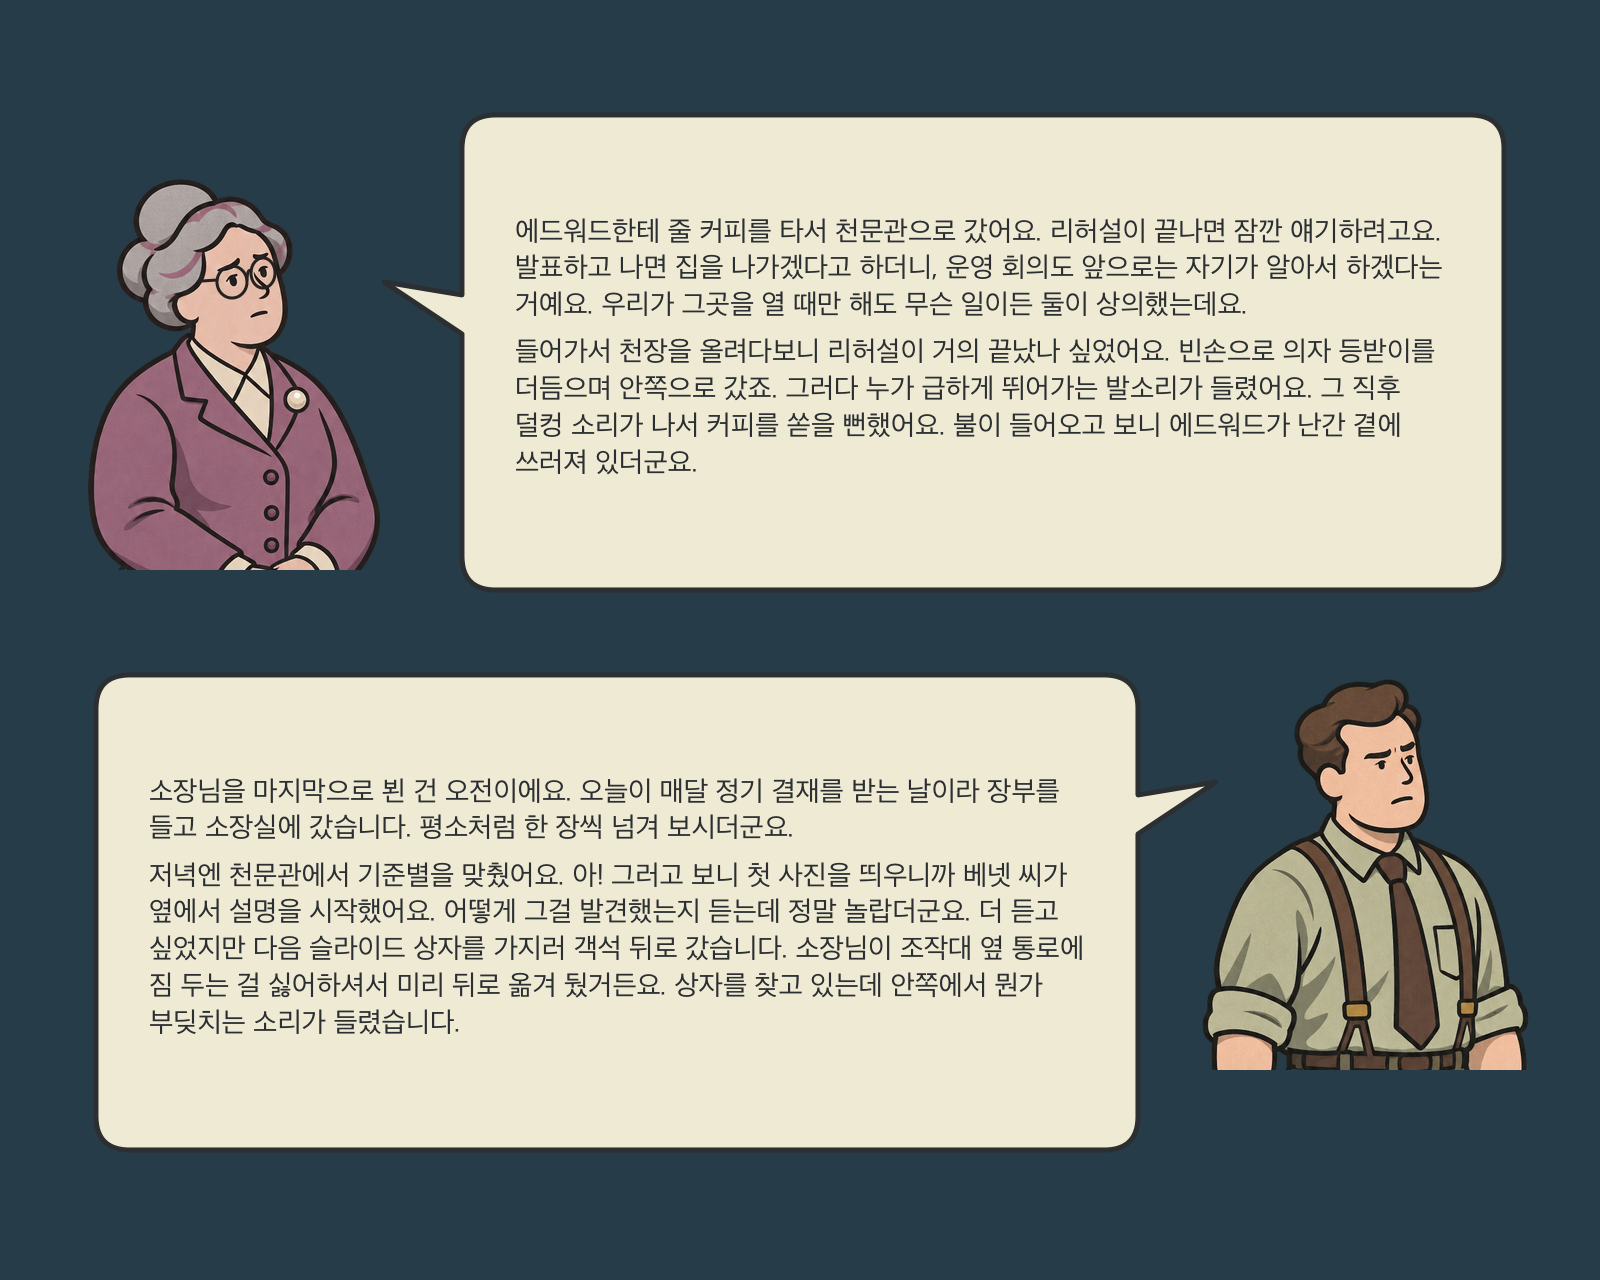
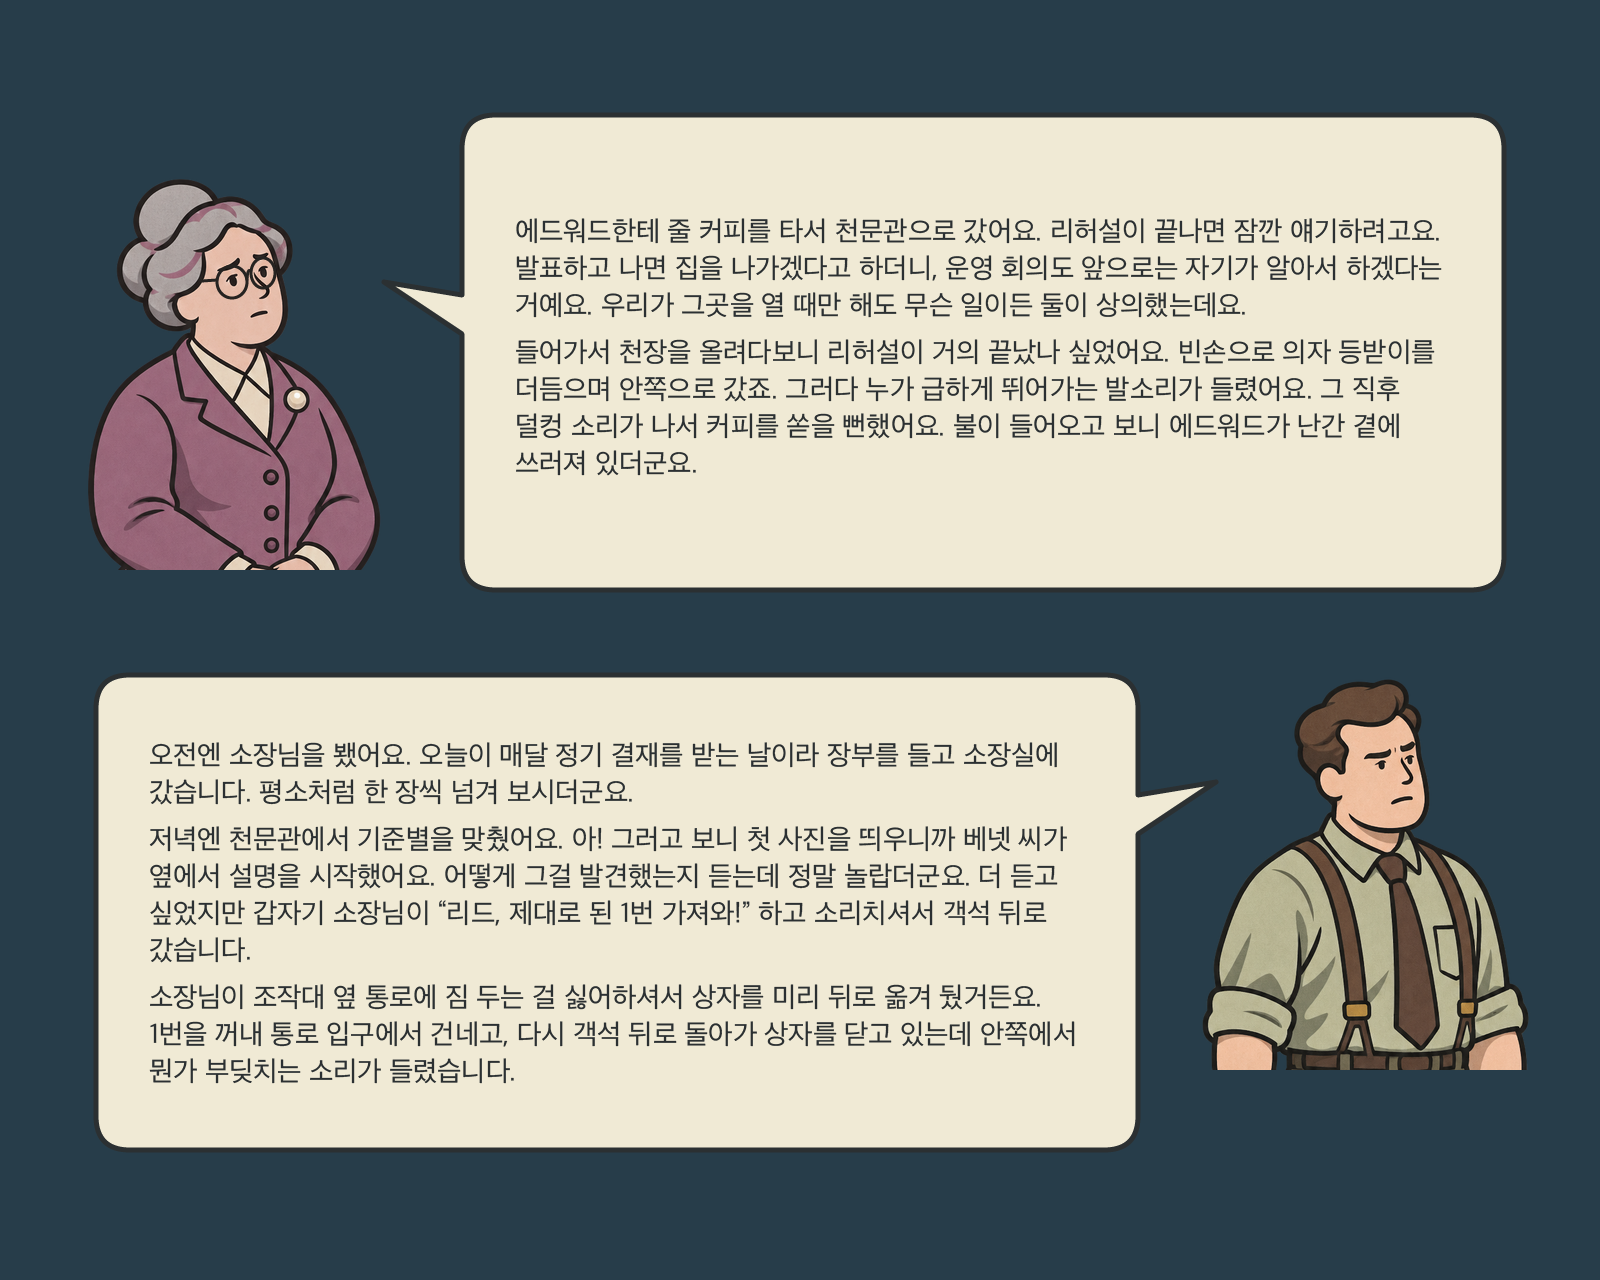
Publish revised planetarium scene and Reid testimony

Changed region(s): [[0.0938, 0.5625, 0.6875, 0.8438], [0.3125, 0.1562, 0.9062, 0.375], [0.8438, 0.1562, 0.9062, 0.2188]]

diff --git a/traces-of-guilt/case-data.js b/traces-of-guilt/case-data.js
@@ -8,14 +8,14 @@ export const caseFile = {
       "당시 현장에는 연구소 사무국장 마거릿 헤일, 천문관 기술실장 아서 리드, 선임연구원 클라이브 베넷, 과학 전문 기자 줄리언 머서가 있었습니다."
     ],
     objective: "발표는 취소됐습니다. 현장의 단서와 네 사람의 증언을 대조해 그날의 리허설을 재구성해 보세요.",
-    image: "planetarium/main.png?v=character-faces"
+    image: "planetarium/main.png?v=rehearsal-slide-handoff"
   },
   clues: [
     {
       title: "목격자 증언 A",
       action: "증언 확인하기",
       mapLabel: "증언",
-      image: "planetarium/witnesses-01.png?v=character-faces",
+      image: "planetarium/witnesses-01.png?v=rehearsal-slide-handoff",
       position: [4, 94.8]
     },
     {

diff --git a/traces-of-guilt/index.html b/traces-of-guilt/index.html
@@ -9,7 +9,7 @@
   <title>Traces of Guilt</title>
   <link rel="canonical" href="https://iontail.github.io/traces-of-guilt/">
   <link rel="stylesheet" href="style.css?v=page-headings">
-  <script src="game.js?v=desk-details" type="module"></script>
+  <script src="game.js?v=rehearsal-slide-handoff" type="module"></script>
 </head>
 <body>
   <svg class="icon-definitions" aria-hidden="true" xmlns="http://www.w3.org/2000/svg">

diff --git a/traces-of-guilt/game.js b/traces-of-guilt/game.js
@@ -1,4 +1,4 @@
-import { caseFile } from "./case-data.js?v=desk-details";
+import { caseFile } from "./case-data.js?v=rehearsal-slide-handoff";
 
 const entrance = document.querySelector(".entrance");
 const enterButton = entrance.querySelector(".enter-room");
